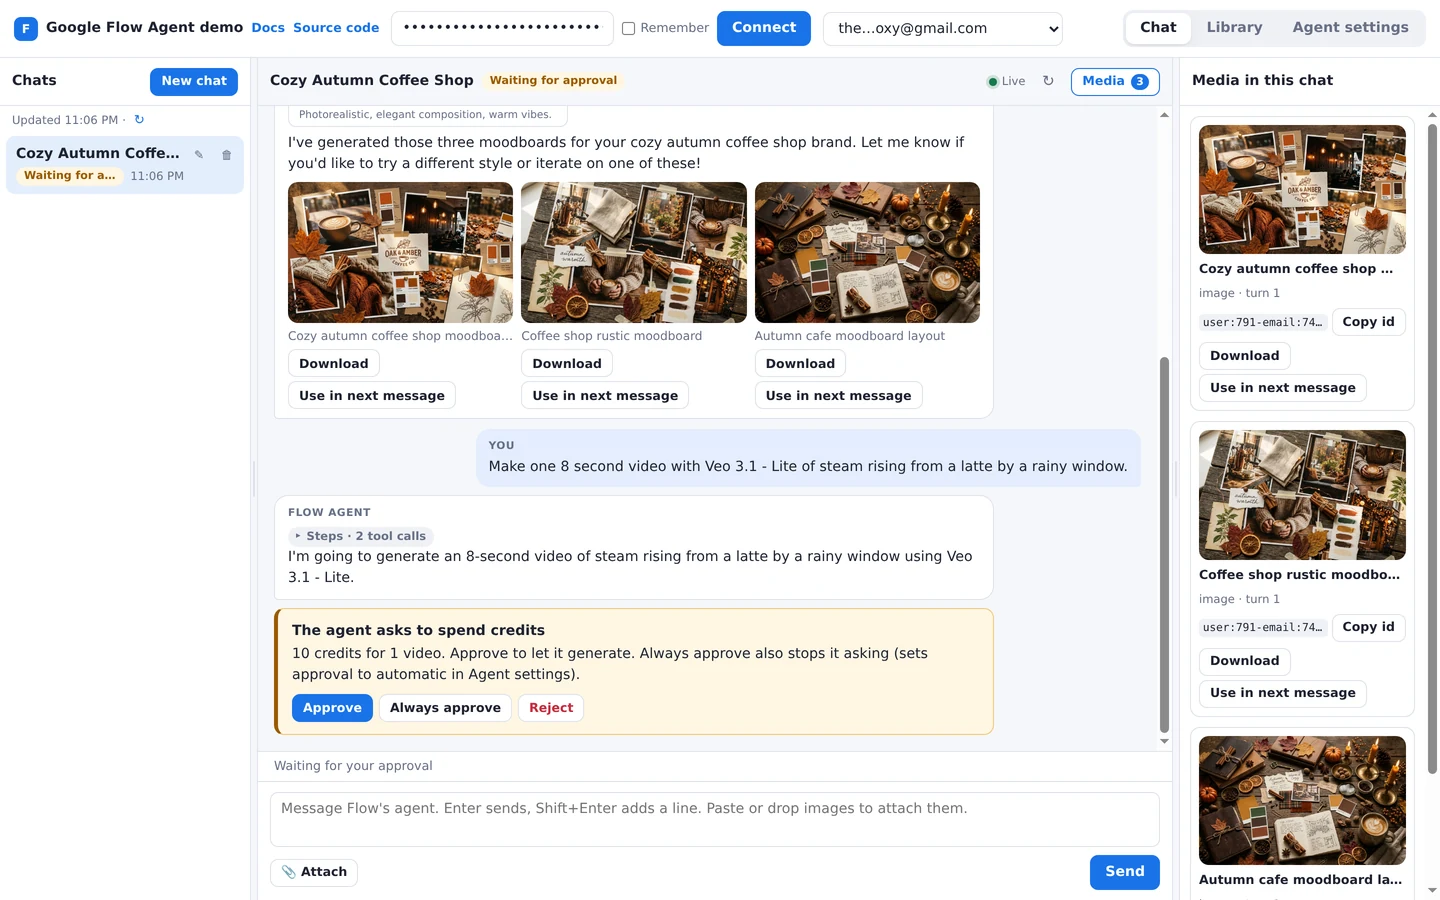
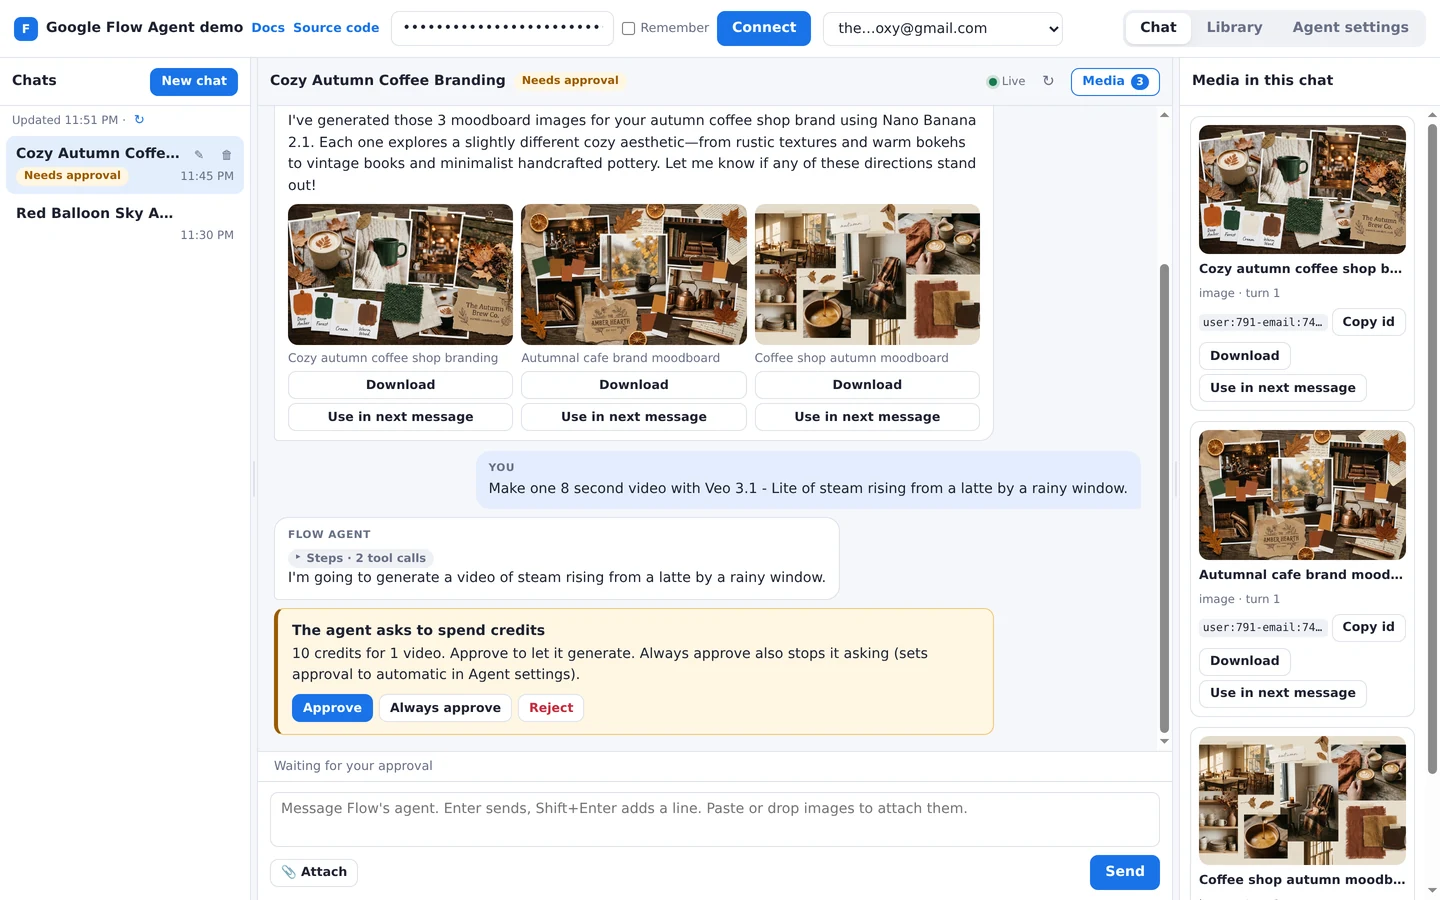
Google Flow agent demo: retaken screenshots 2, 3, 5 and 7 (image choice tiles, Attach menu above the chips, phone layout), caption wording

diff --git a/demo/README.md b/demo/README.md
@@ -14,19 +14,19 @@ A complete chat client for **Google Flow's creative agent**, built on the [Googl
 
 ## Screenshots
 
-Taken on the live demo with a real account: three Nano Banana 2.1 images, and a Veo 3.1 Lite request that was rejected at the cost card.
+Taken on the live demo with a real account, with Nano Banana 2.1 for images and Veo 3.1 Lite for video.
 
 <img src="screenshots/google-flow-agent-demo-1-new-chat.png" alt="New chat: Hi greeting, three starter cards and the message box" width="900">
 
 *1. A new chat greets you and offers three starter cards.*
 
-<img src="screenshots/google-flow-agent-demo-2-chat-results.webp" alt="A finished turn: three moodboard images inline under the agent's answer, the Steps toggle, and the media panel on the right" width="900">
+<img src="screenshots/google-flow-agent-demo-2-chat-results.webp" alt="A finished turn: three moodboard options as image tiles and the images inline under the agent's answer, the Steps toggle, and the media panel on the right" width="900">
 
 *2. The agent's images appear inline, with Download and Use in next message. Its tool calls sit in the collapsed Steps toggle.*
 
 <img src="screenshots/google-flow-agent-demo-3-approval.webp" alt="The agent asks to spend 10 credits for one video, with Approve, Always approve and Reject" width="900">
 
-*3. Before spending credits the agent asks, and the card shows the cost.*
+*3. Before it spends credits, the agent asks for approval.*
 
 <img src="screenshots/google-flow-agent-demo-4-full-size.webp" alt="Full-size view of a moodboard image with Use in next message and Download" width="900">
 
@@ -38,7 +38,7 @@ Taken on the live demo with a real account: three Nano Banana 2.1 images, and a 
 
 <img src="screenshots/google-flow-agent-demo-6-settings.png" alt="Agent settings: approval mode, instructions, and default models with their credits" width="900">
 
-*6. Agent settings: approval, instructions, and the plan's models with what one generation costs.*
+*6. Agent settings: approval, instructions, and the default image and video models.*
 
 <img src="screenshots/google-flow-agent-demo-7-phone-dark.webp" alt="Phone, dark theme: the chat with its images" width="300">
 
